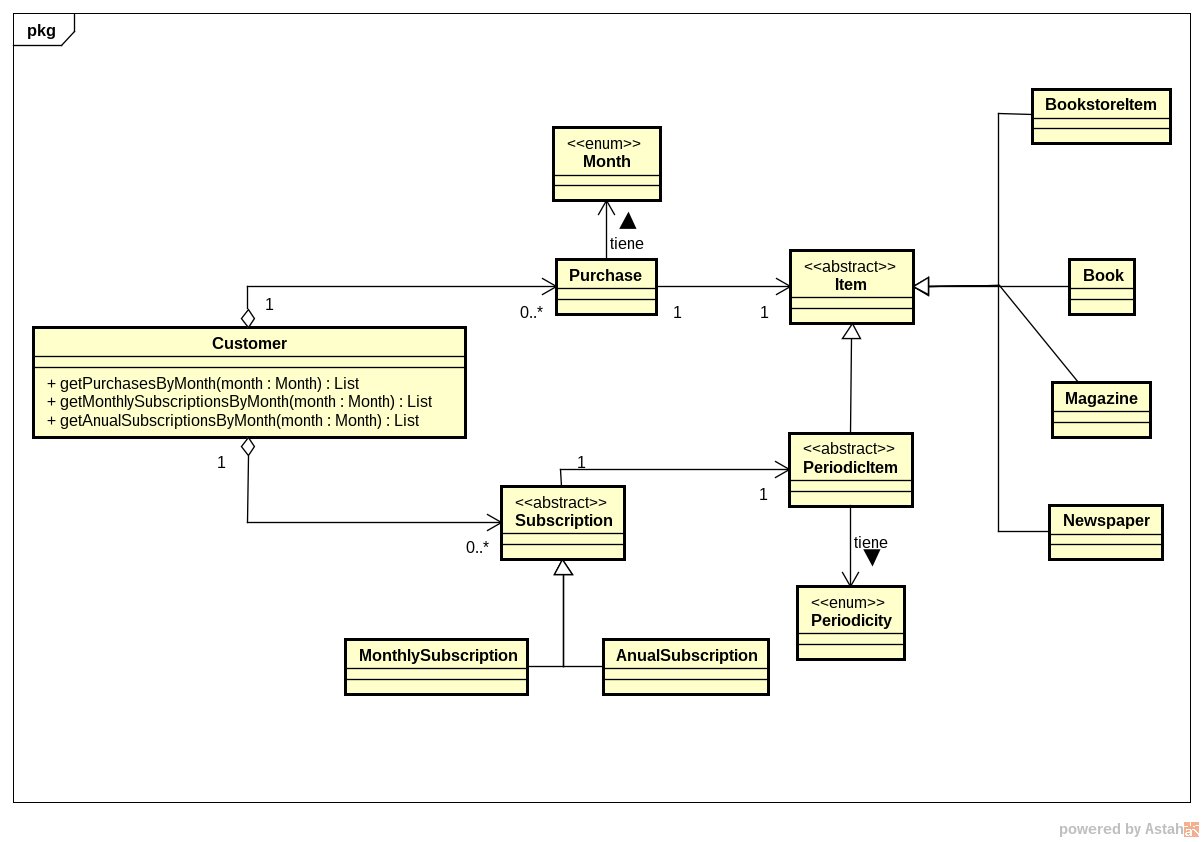
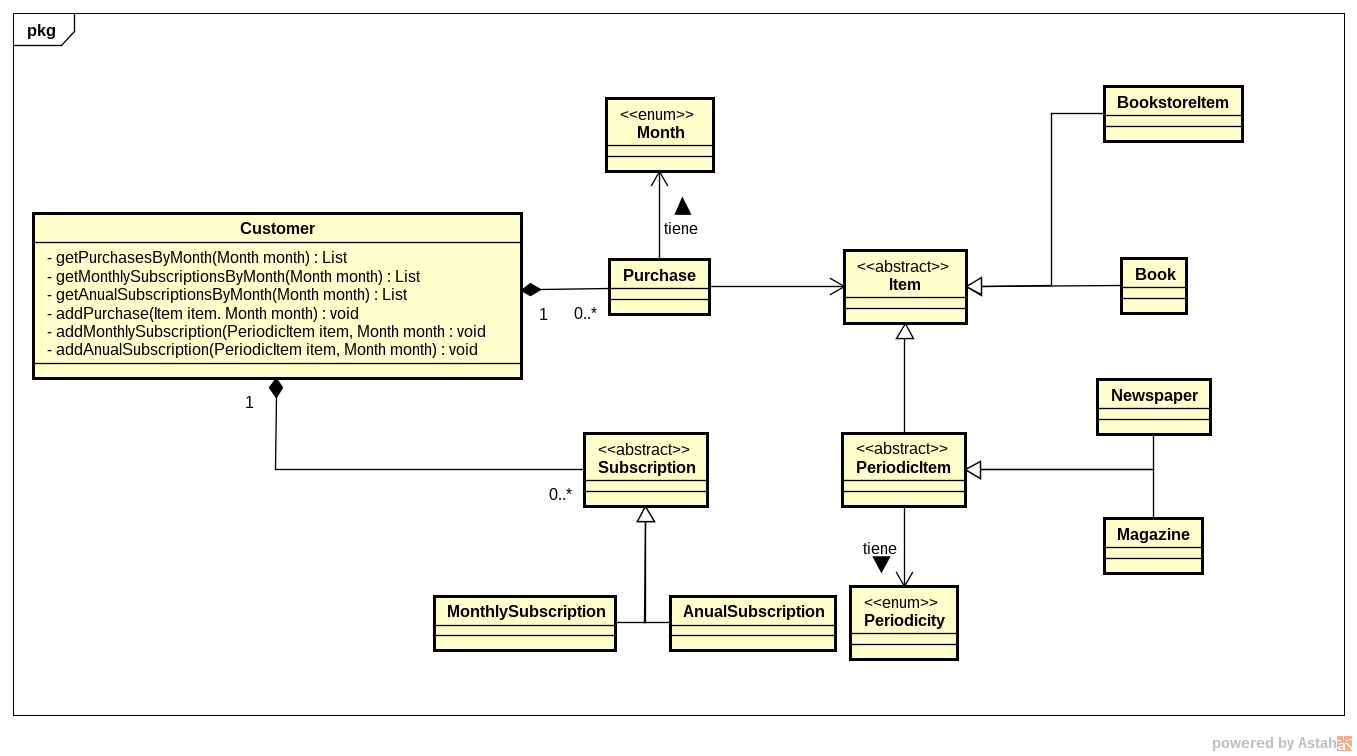
se cambia la forma de evaluar parametros

Changed region(s): [[0.0, 0.0, 1.0, 0.9431], [0.8912, 0.9735, 1.0, 1.0]]

diff --git a/ejercicio-libreria/src/main/java/ar/edu/untref/aydoo/Item.java b/ejercicio-libreria/src/main/java/ar/edu/untref/aydoo/Item.java
@@ -7,9 +7,9 @@ public abstract class Item {
 
     String name;
     double price;
-    Periodicity periodicity;
 
-    public Item(String name, double price){
+
+    public Item(String name, double price) {
         this.name = name;
         this.price = price;
     }
@@ -18,7 +18,4 @@ public abstract class Item {
         return price;
     }
 
-    public Periodicity getPeriodicity() {
-        return periodicity;
-    }
 }

diff --git a/ejercicio-libreria/src/main/java/ar/edu/untref/aydoo/Subscription.java b/ejercicio-libreria/src/main/java/ar/edu/untref/aydoo/Subscription.java
@@ -11,8 +11,9 @@ public abstract class Subscription {
         this.item = item;
     }
 
-    public Item getItem(){
+    public  PeriodicItem getItem(){
         return this.item;
     }
+
 
 }
